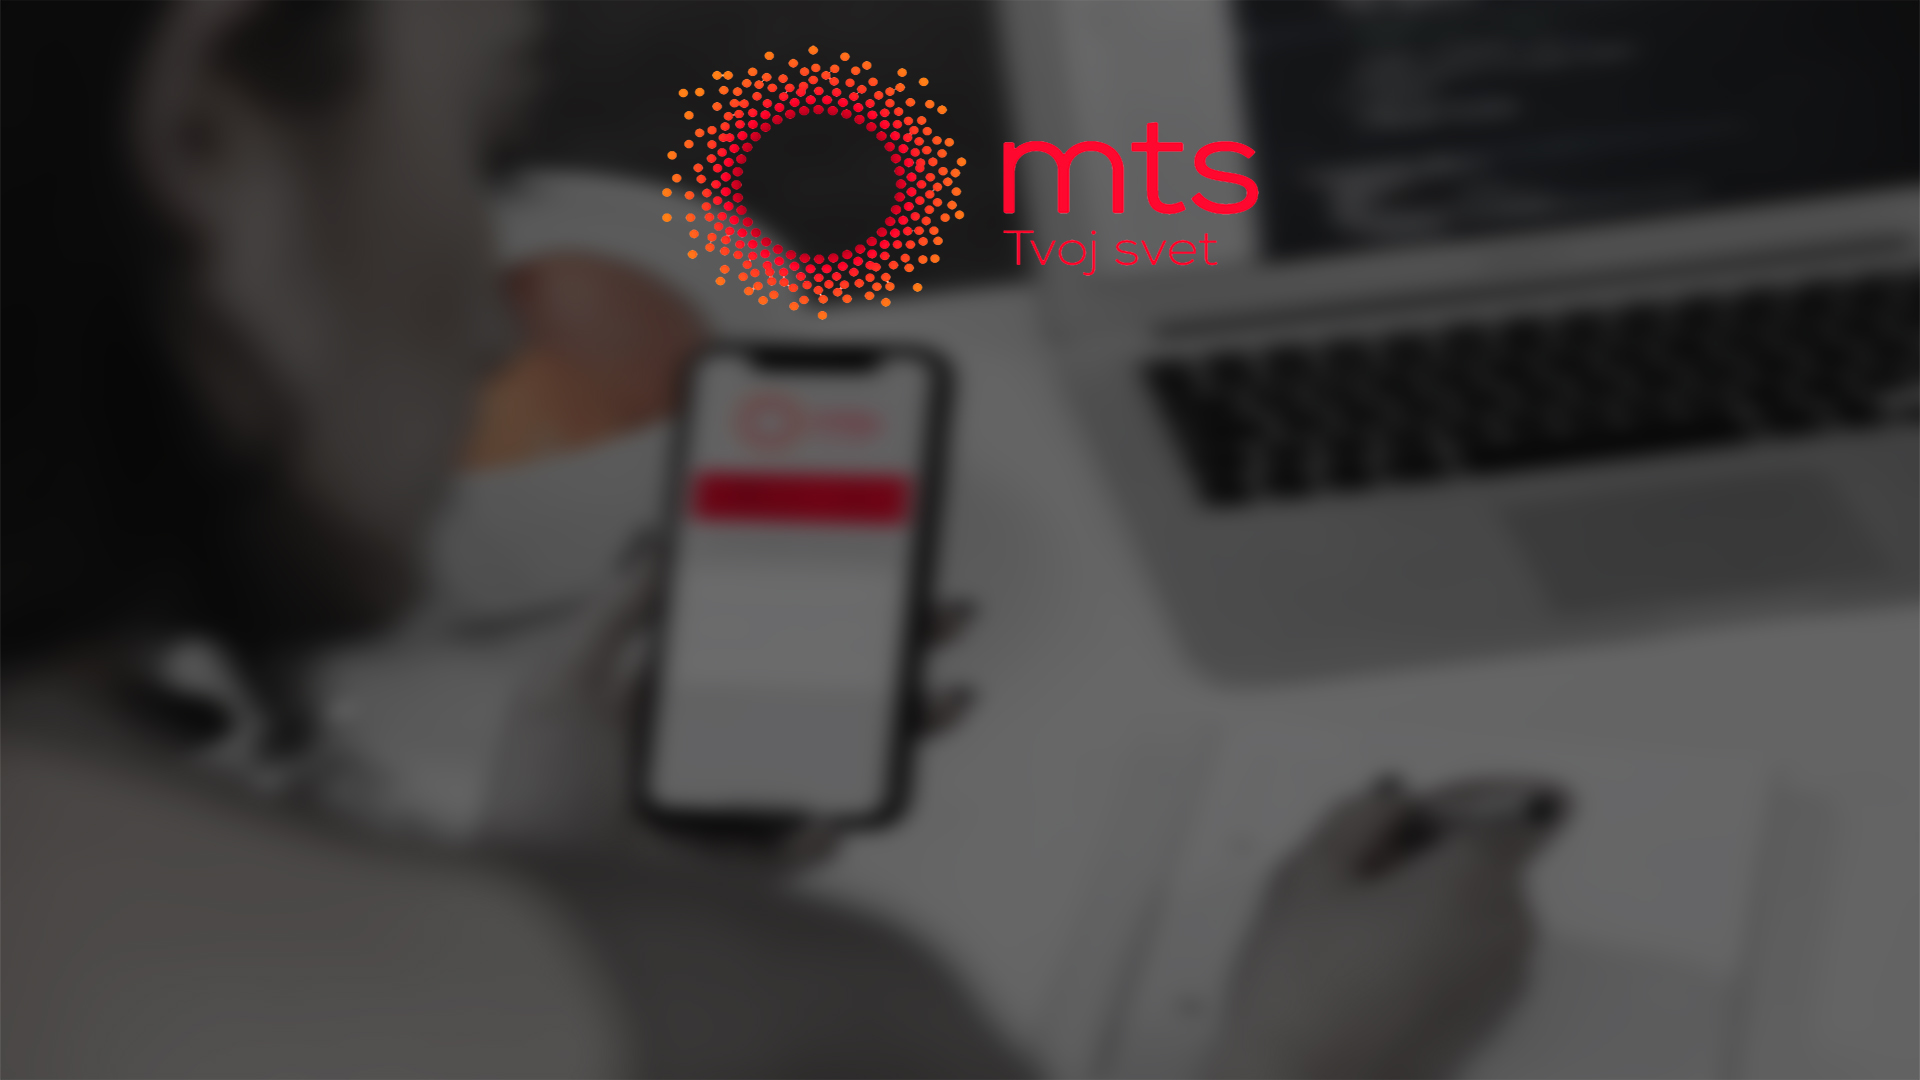
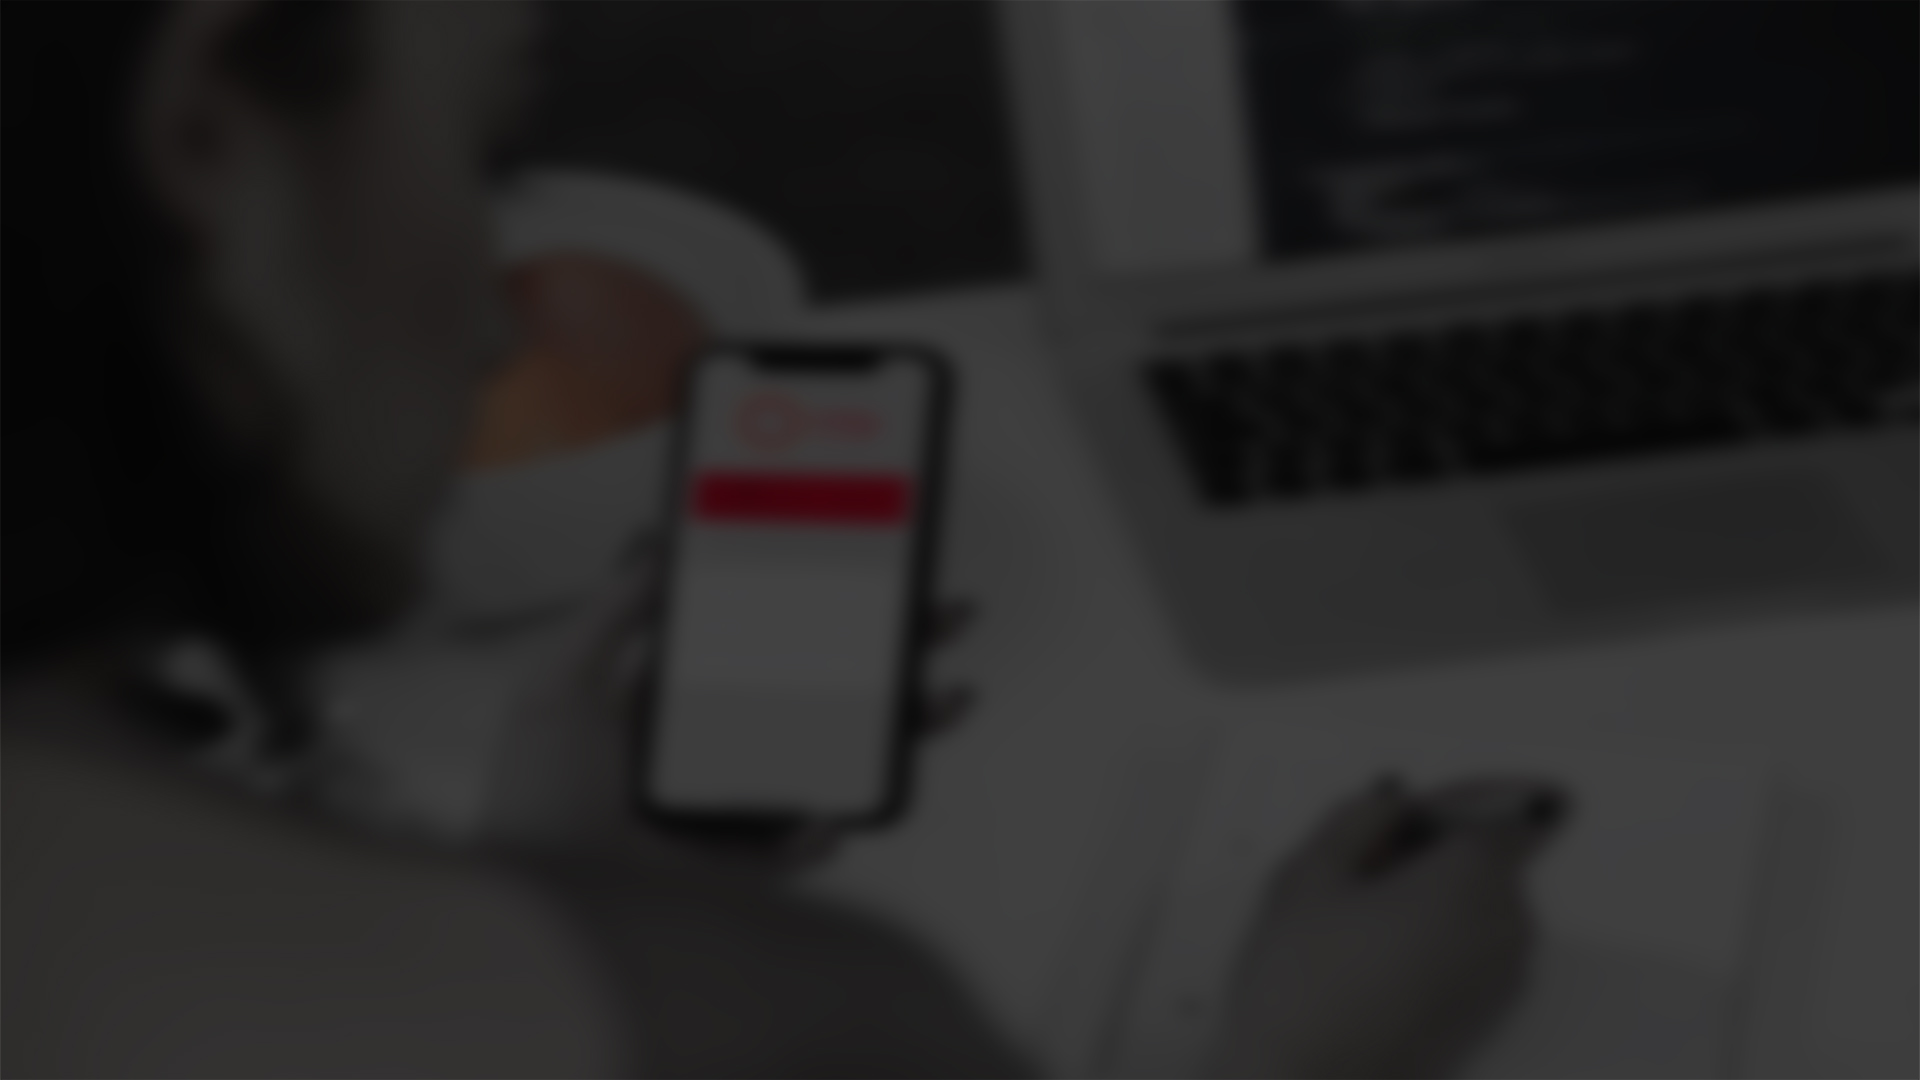
Vratio sam se

diff --git a/src/app/category-search/category-search.component.html b/src/app/category-search/category-search.component.html
@@ -1,7 +1,30 @@
 <div class="dropdown">
 
-  <p-dropdown [options]="companies" [(ngModel)]="selectedCompany" placeholder="Select a Company" optionLabel="name" [showClear]="true" filter="true">
+  <p-dropdown [options]="companies" [(ngModel)]="selectedCompany" placeholder="Select a Company" optionLabel="name" [showClear]="true"
+              filter="true" (onchange)="bigpizza()">
 
   </p-dropdown>
 
+</div>
+
+<div class="companyField" *ngIf="selectedCompany">
+
+  <div class="headCont">
+  <h1>{{selectedCompany.name}}</h1>
+  <p class="phoneNumber" >{{selectedCompany.phoneNumber}}</p>
+  </div>
+
+  <div class="container">
+    <p>Broj poziva</p>
+    <input pInputText type="text">
+  </div>
+
+  <div class="container">
+    <p>Vremenski opseg</p>
+    <input pInputText type="text">
+  </div>
+
+  <div class="button">
+  <button pButton type="button" label="Nadji" class="ui-button-success"></button>
+  </div>
 </div>

diff --git a/src/app/app.module.ts b/src/app/app.module.ts
@@ -3,6 +3,8 @@ import { NgModule } from '@angular/core';
 import { Routes, RouterModule } from '@angular/router';
 import { TabViewModule } from 'primeng/tabview';
 import {DropdownModule} from 'primeng/dropdown';
+import {InputTextModule} from 'primeng/inputtext';
+import {ButtonModule} from 'primeng/button';
 
 import { AppComponent } from './app.component';
 import { LoginComponent } from './login/login.component';
@@ -33,7 +35,9 @@ import {BrowserAnimationsModule} from '@angular/platform-browser/animations';
     TabViewModule,
     DropdownModule,
     FormsModule,
-    BrowserAnimationsModule
+    BrowserAnimationsModule,
+    InputTextModule,
+    ButtonModule
   ],
   providers: [AuthService],
   bootstrap: [AppComponent]

diff --git a/src/app/main-view/main-view.component.html b/src/app/main-view/main-view.component.html
@@ -1,10 +1,20 @@
-<div class="tabView">
+<div class="mainDiv">
+
+  <div class="img">
+    <img src="/assets/mtsLogo.png">
+  </div>
+
+  <div class="tabView">
     <p-tabView>
-        <p-tabPanel header="Category search" [selected]="true">
-            <app-category-search></app-category-search>
-        </p-tabPanel>
-        <p-tabPanel header="People search">
-            <app-search-people></app-search-people>
-        </p-tabPanel>
+      <p-tabPanel header="Category search" [selected]="true">
+        <app-category-search></app-category-search>
+      </p-tabPanel>
+      <p-tabPanel header="People search">
+        <app-search-people></app-search-people>
+      </p-tabPanel>
     </p-tabView>
+  </div>
+
 </div>
+
+

diff --git a/src/app/category-search/category-search.component.ts b/src/app/category-search/category-search.component.ts
@@ -2,6 +2,7 @@ import { Component, OnInit } from '@angular/core';
 
 interface Company {
   name: string;
+  phoneNumber: string;
 }
 @Component({
   selector: 'app-category-search',
@@ -23,8 +24,8 @@ export class CategorySearchComponent implements OnInit {
   constructor() {
 
     this.companies = [
-      {name: 'BigPizza'},
-      {name: 'BeoTaxi'}
+      {name: 'BigPizza', phoneNumber: '066/441-441'},
+      {name: 'BeoTaxi', phoneNumber: '065888888'}
     ];
   }
 

diff --git a/src/app/category-search/category-search.component.css b/src/app/category-search/category-search.component.css
@@ -1,3 +1,33 @@
 .dropdown{
   padding-top: 10px;
 }
+
+h1{
+  color: #ffffff;
+}
+
+.phoneNumber{
+  font-size: 20px;
+  width: 150px;
+  border-radius: 5px;
+  background-color: #ff082f;
+  padding-left: 15px;
+}
+
+input{
+  /*width: 5%;*/
+  color: white;
+}
+
+.container{
+  width: 30%;
+  margin: auto;
+  float: left;
+}
+button{
+  margin-top: 20px;
+  width: 150px;
+}
+p{
+  font-size: 20px;
+}

diff --git a/src/app/login/login.component.html b/src/app/login/login.component.html
@@ -1,6 +1,9 @@
 <div class="slika">
     <div class="logIn">
         <div class="container">
+          <div class="img">
+            <img src="/assets/mtsLogo.png">
+          </div>
             <h1>Log In</h1>
             <form action="post">
                 <div class="input">

diff --git a/src/app/login/login.component.css b/src/app/login/login.component.css
@@ -1,7 +1,13 @@
 .logIn {
-    padding-top: 400px;
+    padding-top: 180px;
     font-family: sans-serif;
     /* min-height: 650px; */
+}
+
+.img img{
+  width:85%;
+  display: block;
+  margin: auto;
 }
 
 .slika {

diff --git a/src/app/main-view/main-view.component.css b/src/app/main-view/main-view.component.css
@@ -1,3 +1,13 @@
 .tabView{
   padding: 10px;
 }
+
+.img img{
+  width:15%;
+  display: block;
+  margin: auto;
+}
+
+.mainDiv{
+  min-height: 100%;
+}

diff --git a/src/styles.css b/src/styles.css
@@ -4,3 +4,9 @@ body,
 html {
     height: 100%;
 }
+.ui-tabview, .ui-widget,.ui-tabview-top{
+
+  background-color: rgba(255, 255, 255, 0.20);
+
+
+}

diff --git a/src/app/app.component.html b/src/app/app.component.html
@@ -1,11 +1,3 @@
-<header>
-    <!--  -->
-</header>
-
 <div class="main">
     <router-outlet></router-outlet>
 </div>
-
-<footer>
-
-</footer>

diff --git a/src/app/app.component.css b/src/app/app.component.css
@@ -1,3 +1,5 @@
 .main {
-    height: 100%;
+  height: 100%;
+  background: url("/assets/background.jpg");
 }
+
